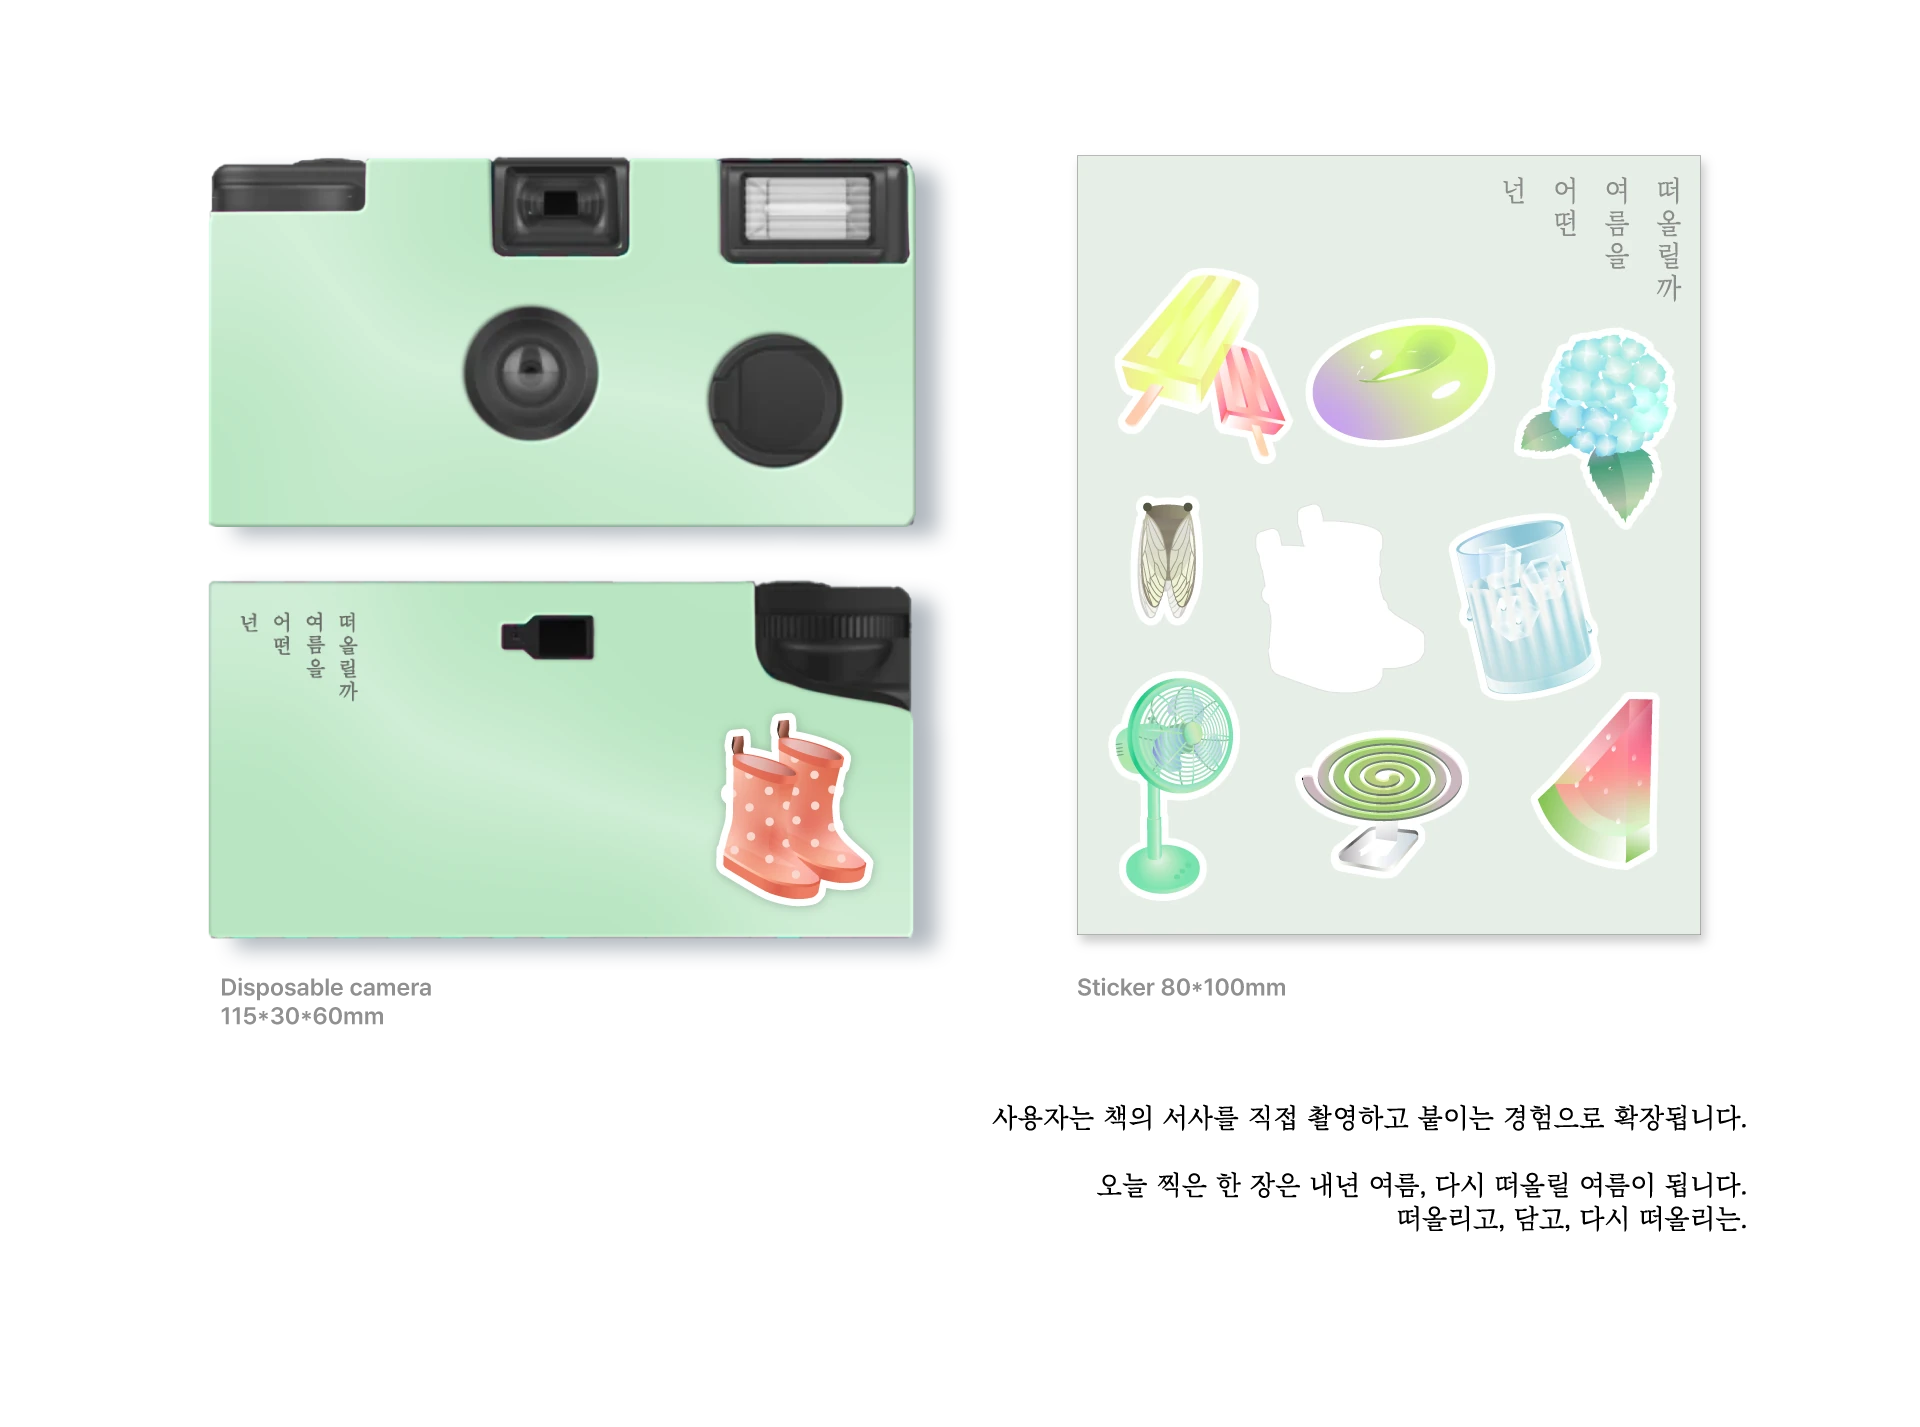
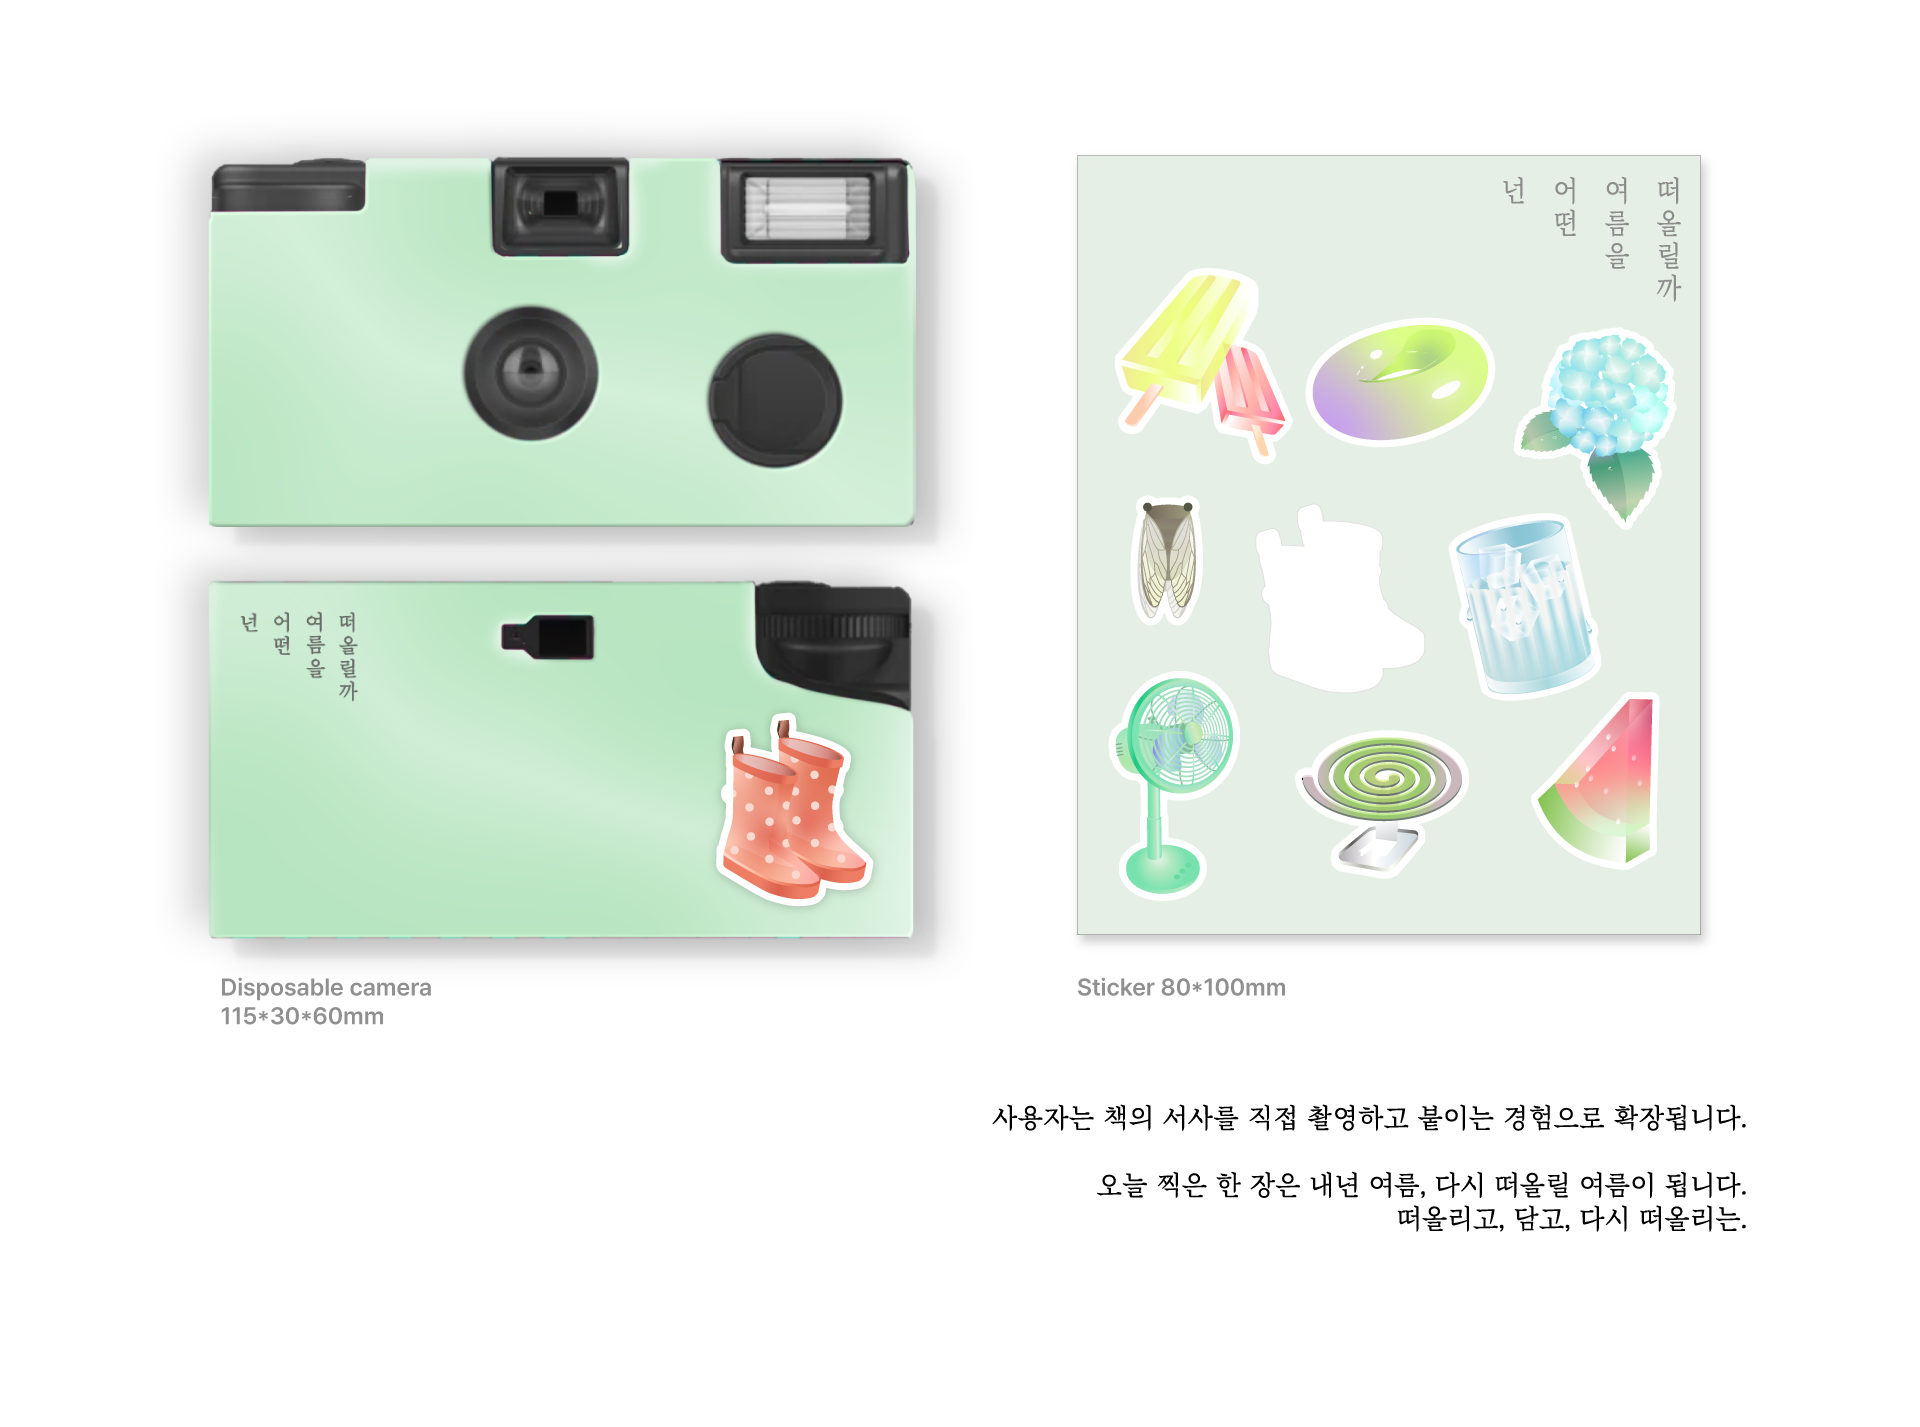
Summer camera image, adidas board copy/layout and channel tone hover

Changed region(s): [[0.0938, 0.4008, 0.4688, 0.6475], [0.0938, 0.0925, 0.4688, 0.3392], [0.4375, 0.4933, 0.5, 0.5858]]

diff --git a/index.html b/index.html
@@ -20,7 +20,7 @@
 <link href="https://api.fontshare.com/v2/css?f[]=general-sans@400,500,600&display=swap" rel="stylesheet">
 <link href="https://fonts.googleapis.com/css2?family=Noto+Sans+KR:wght@300;400;500;700&display=swap" rel="stylesheet">
 <link href="https://fonts.googleapis.com/css2?family=Instrument+Serif:ital@0;1&display=swap" rel="stylesheet">
-<link href="./assets/css/style.css?v=274" rel="stylesheet">
+<link href="./assets/css/style.css?v=275" rel="stylesheet">
 </head>
 <body class="page0active" oncontextmenu="return false">
 
@@ -532,7 +532,7 @@ The photographs in the book were generated with Midjourney as summer scenes that
         <figure class="work-figure"><img src="./images/design/summer/02.webp?v=3" width="1920" height="1080" loading="lazy" alt="Summer Nostalgia book in everyday scenes"></figure>
         <figure class="work-figure"><img src="./images/design/summer/03.webp?v=4" width="1191" height="2000" loading="lazy" alt="Summer Nostalgia editorial book spreads"></figure>
         <figure class="work-figure"><img src="./images/design/summer/04.webp?v=3" width="1920" height="1080" loading="lazy" alt="Summer Nostalgia Instagram carousel graphics"></figure>
-        <figure class="work-figure"><img src="./images/design/summer/05.webp?v=6" width="1920" height="1427" loading="lazy" alt="Summer Nostalgia disposable camera and sticker sheet"></figure>
+        <figure class="work-figure"><img src="./images/design/summer/05.webp?v=8" width="1920" height="1427" loading="lazy" alt="Summer Nostalgia disposable camera and sticker sheet"></figure>
       </div>
 
       <div class="work-side work-side--right">
@@ -647,7 +647,7 @@ Taking part in the whole campaign process, from content planning to production, 
               <div class="ad-sec">
                 <p class="ad-label">01 Scope</p>
                 <h3 class="ad-title">From Plan to Feed</h3>
-                <p class="ad-lead">캠페인이 소비자에 닿기까지의 모든 단계를 함께 했습니다.<br>콘텐츠를 설계하고, 다듬고, 발행하고, 그 반응을 다시 다음 기획으로 이어 붙이는 일까지.</p>
+                <p class="ad-lead">캠페인 기획부터 콘텐츠 제작, 발행, 성과 리포트까지 소셜 운영 전반을 담당했습니다.<br>리포트에서 얻은 인사이트는 다음 캠페인 기획에 반영했습니다.</p>
                 <div class="ad-scope">
                   <div class="ad-col">
                     <p class="ad-num">01</p><h4>Communication</h4><p class="ad-sub">사람과 맞추는 일</p>
@@ -707,13 +707,13 @@ Taking part in the whole campaign process, from content planning to production, 
               <div class="ad-sec">
                 <p class="ad-label">03 Content T&amp;M</p>
                 <h3 class="ad-title">Translating the Brand,<br>Not the Words</h3>
-                <p class="ad-lead">글로벌 캠페인의 메시지를 그대로 번역하는 대신, 한국 계정의 톤앤매너로 다시 썼습니다.<br>채널과 타깃에 따라 문장을 바꾸는 기준을 세우기 위해, 팀과 함께 소셜 Base Guideline을 제안했습니다.</p>
+                <p class="ad-lead">글로벌 캠페인의 메시지를 그대로 번역하는 대신, 한국 계정의 톤앤매너로 다시 썼습니다.<br>채널과 타깃에 따라 T&amp;M을 맞추기 위해, 팀과 함께 소셜 Base Guideline을 제안했습니다.</p>
                 <div class="ad-tm">
                   <div>
                     <p class="ad-cap"><b>CHANNEL TONE</b> &mdash; 하나의 브랜드, 두 개의 목소리</p>
                     <div class="ad-tones">
-                      <div class="ad-tone ad-tone--sports"><h5>adidas Sports</h5><p>열정적이고 강렬한 어조<br>도전과 성취에 대한 긍정<br>자신감을 고취하는 톤</p></div>
-                      <div class="ad-tone ad-tone--originals"><h5>adidas Originals</h5><p>독창성과 창의성을 강조<br>세련되고 심플한 무드<br>클래식하면서 감각적인</p></div>
+                      <div class="ad-tone ad-tone--sports"><h5>adidas kr</h5><p>열정적이고 강렬한 어조<br>도전과 성취에 대한 긍정<br>자신감을 고취하는 톤</p></div>
+                      <div class="ad-tone ad-tone--originals"><h5>Originals kr</h5><p>독창성과 창의성을 강조<br>세련되고 심플한 무드<br>클래식하면서 감각적인</p></div>
                     </div>
                     <p class="ad-note">Sports는 도전과 성취를 강하게, Originals는 감각과 무드를 담백하게.<br>같은 글로벌 에셋도 채널과 타깃에 따라 다른 문장으로 옮겼습니다.</p>
                   </div>

diff --git a/assets/css/style.css b/assets/css/style.css
@@ -4158,9 +4158,10 @@ html[lang="ko"] .work-about-text {
 /* 03 content T&M */
 .ad-tm {
   display: grid;
-  grid-template-columns: repeat(2, minmax(0, 1fr));
-  gap: calc(80 * var(--u));
-  margin-top: calc(80 * var(--u));
+  grid-template-columns: minmax(0, 1fr);
+  gap: calc(170 * var(--u));
+  width: calc(1126 * var(--u));
+  margin: calc(160 * var(--u)) auto 0;
 }
 
 .ad-cap {
@@ -4173,17 +4174,35 @@ html[lang="ko"] .work-about-text {
 .ad-cap b { font-weight: 500; letter-spacing: 0.12em; }
 .ad-cap--split { display: flex !important; justify-content: space-between; }
 
-.ad-tones { display: grid; grid-template-columns: 1fr 1fr; gap: calc(20 * var(--u)); }
+.ad-tones { display: grid; grid-template-columns: 1fr 1fr; gap: calc(26 * var(--u)); }
 
 .ad-tone {
   position: relative;
-  height: calc(200 * var(--u));
+  isolation: isolate;
+  height: calc(268 * var(--u));
   padding: calc(28 * var(--u));
   background: center / 100% 100% no-repeat;
   color: #fff;
 }
 .ad-tone--sports { background-image: url(../../images/pm/adidas-board/tone-sports.webp?v=1); }
 .ad-tone--originals { background-image: url(../../images/pm/adidas-board/tone-originals.webp?v=1); }
+/* hover: the black box turns into the channel photo; the logo (::after) and the text stay on top */
+.ad-tone::before,
+.ad-tone::after {
+  content: "";
+  position: absolute;
+  inset: 0;
+  background: center / 100% 100% no-repeat;
+  pointer-events: none;
+}
+.ad-tone::before { z-index: -1; opacity: 0; transition: opacity 0.4s ease; }
+.ad-tone:hover::before { opacity: 1; }
+.ad-tone::after { z-index: 1; }
+.ad-tone > * { position: relative; z-index: 2; }
+.ad-tone--sports::before { background-image: url(../../images/pm/adidas-board/tone-sports-hover.webp?v=1); }
+.ad-tone--originals::before { background-image: url(../../images/pm/adidas-board/tone-originals-hover.webp?v=1); }
+.ad-tone--sports::after { background-image: url(../../images/pm/adidas-board/logo-sports.png?v=1); }
+.ad-tone--originals::after { background-image: url(../../images/pm/adidas-board/logo-originals.png?v=1); }
 
 .ad-tone h5, .ad-rule h5 { font-size: calc(25 * var(--u)) !important; font-weight: 600; }
 .ad-tone p { margin-top: calc(18 * var(--u)) !important; font-size: calc(18 * var(--u)) !important; line-height: 1.6 !important; color: #bdbdbd; }
